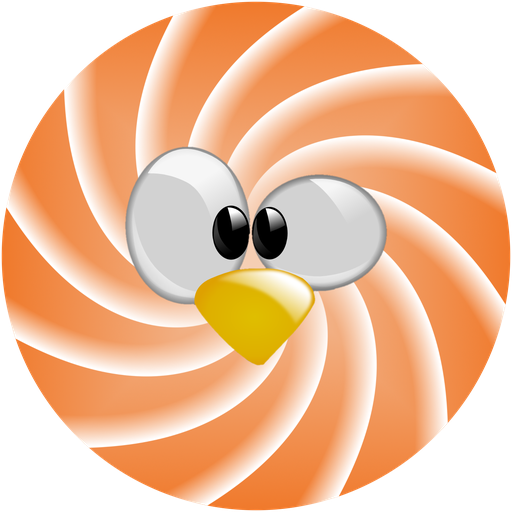
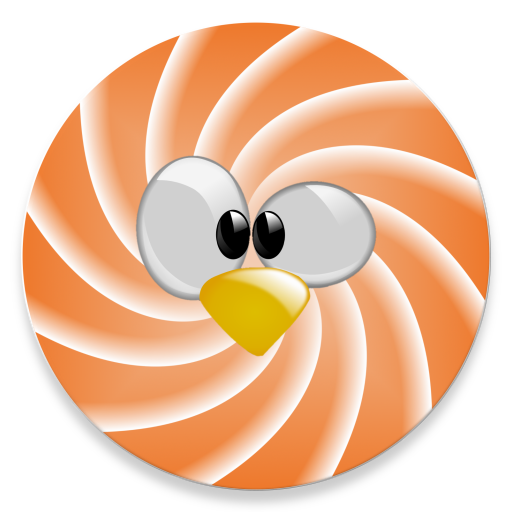
restore original mipmap/store PNGs; skip regenerating them in script
The original mipmap-*/ic_launcher.png and ic_launcher-web.png include
a drop shadow that the XCF-generated composites don't reproduce.
Restore them from before the icon work and update generate_icon.py to
leave those files untouched.

https://claude.ai/code/session_01X3HgUdNqCbSFAr9vs6u6oR

diff --git a/etc/generate_icon.py b/etc/generate_icon.py
@@ -264,14 +264,9 @@ def main():
         (anydpi / name).write_text(ADAPTIVE_ICON_XML, encoding='utf-8')
         print(f'  mipmap-anydpi-v26/{name}')
 
-    print('\n=== Legacy mipmap PNGs ===')
-    legacy = {'mdpi': 48, 'hdpi': 72, 'xhdpi': 96, 'xxhdpi': 144, 'xxxhdpi': 192}
-    for density, px in legacy.items():
-        save_png(composite, RES / f'mipmap-{density}' / 'ic_launcher.png', px)
-
-    print('\n=== Web / store icon (512×512) ===')
-    save_png(composite, ROOT / 'app/src/main/ic_launcher-web.png', 512)
-    save_png(composite, ROOT / 'fastlane/metadata/android/en-US/images/icon.png', 512)
+    print('\n=== Legacy mipmap PNGs (kept from original — include drop shadow) ===')
+    print('  Skipped: mipmap-*/ic_launcher.png and ic_launcher-web.png are preserved as-is.')
+    print('  To regenerate them, remove this block and restore the save_png calls.')
 
     print('\nDone.')
 
